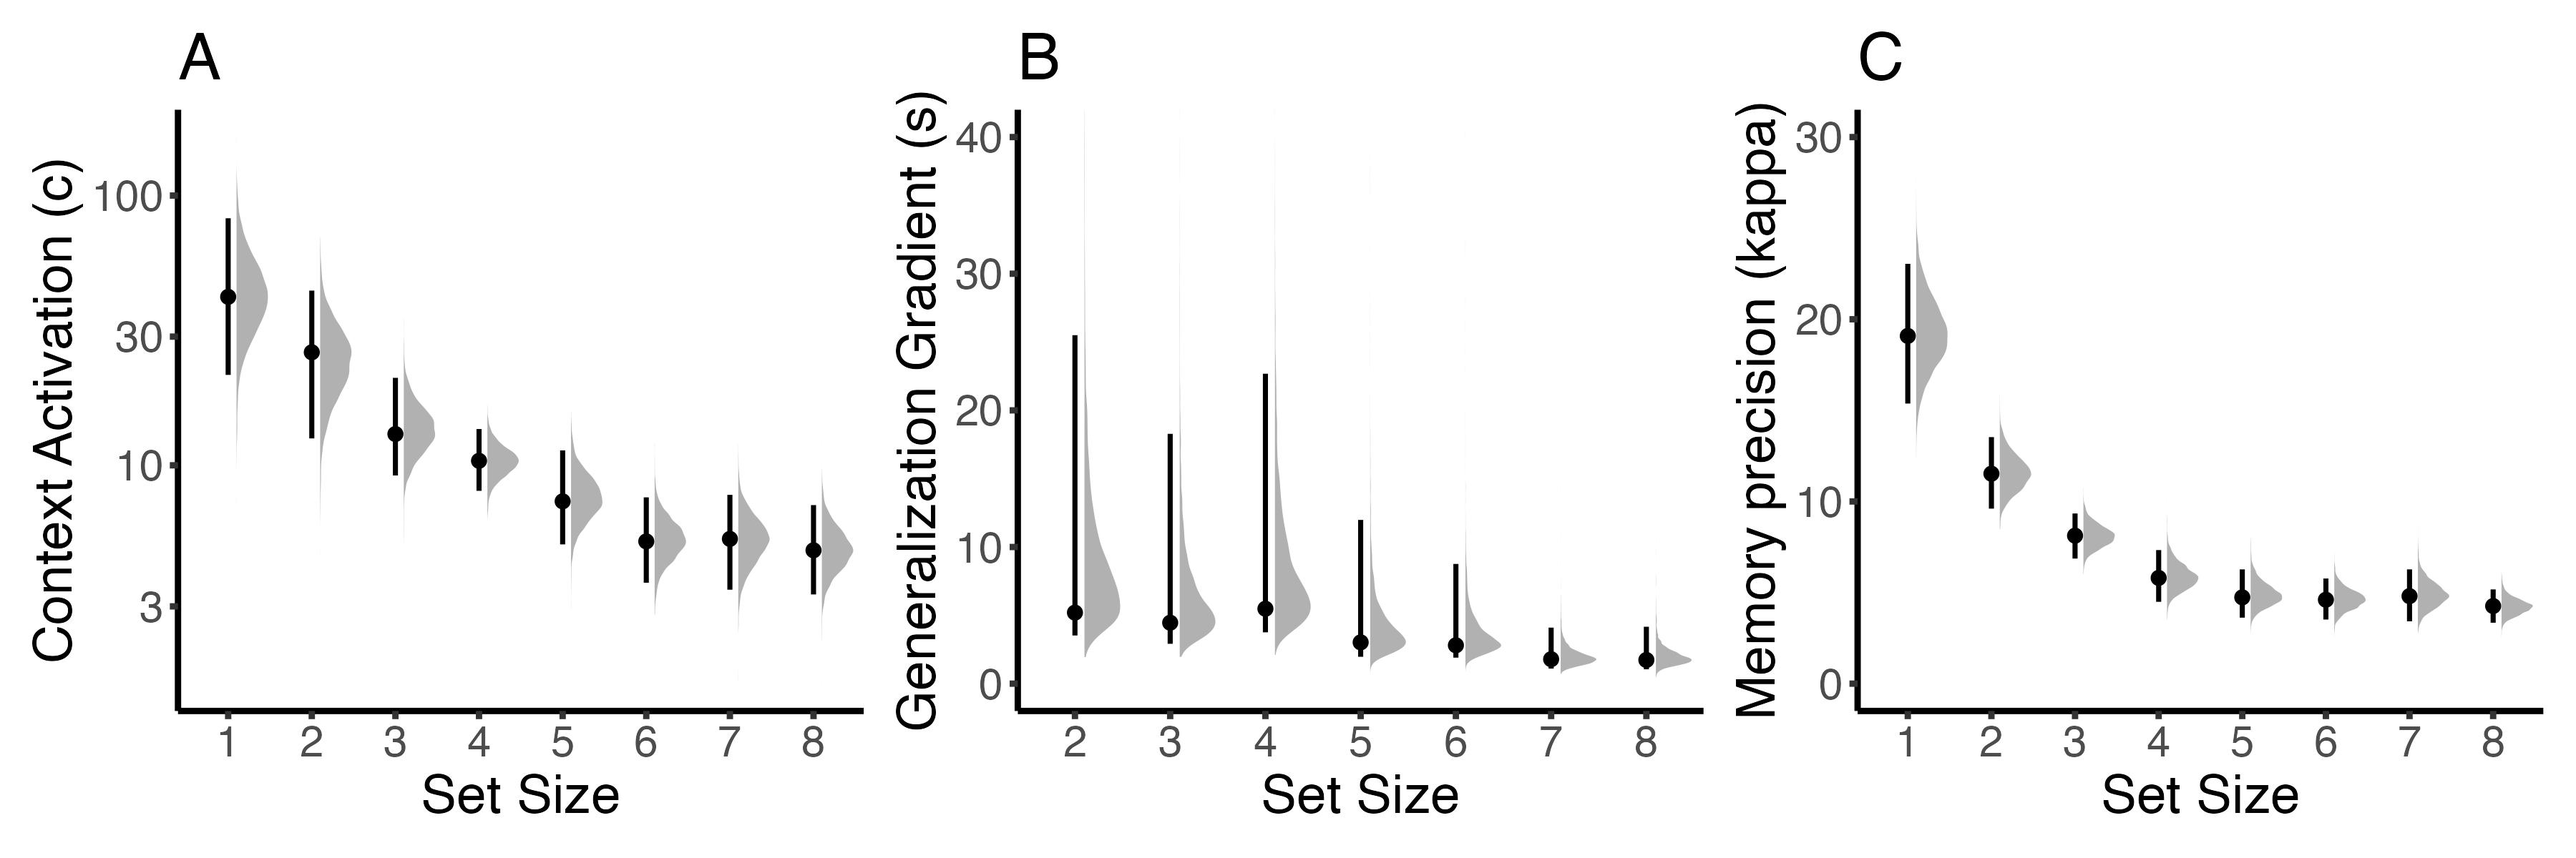
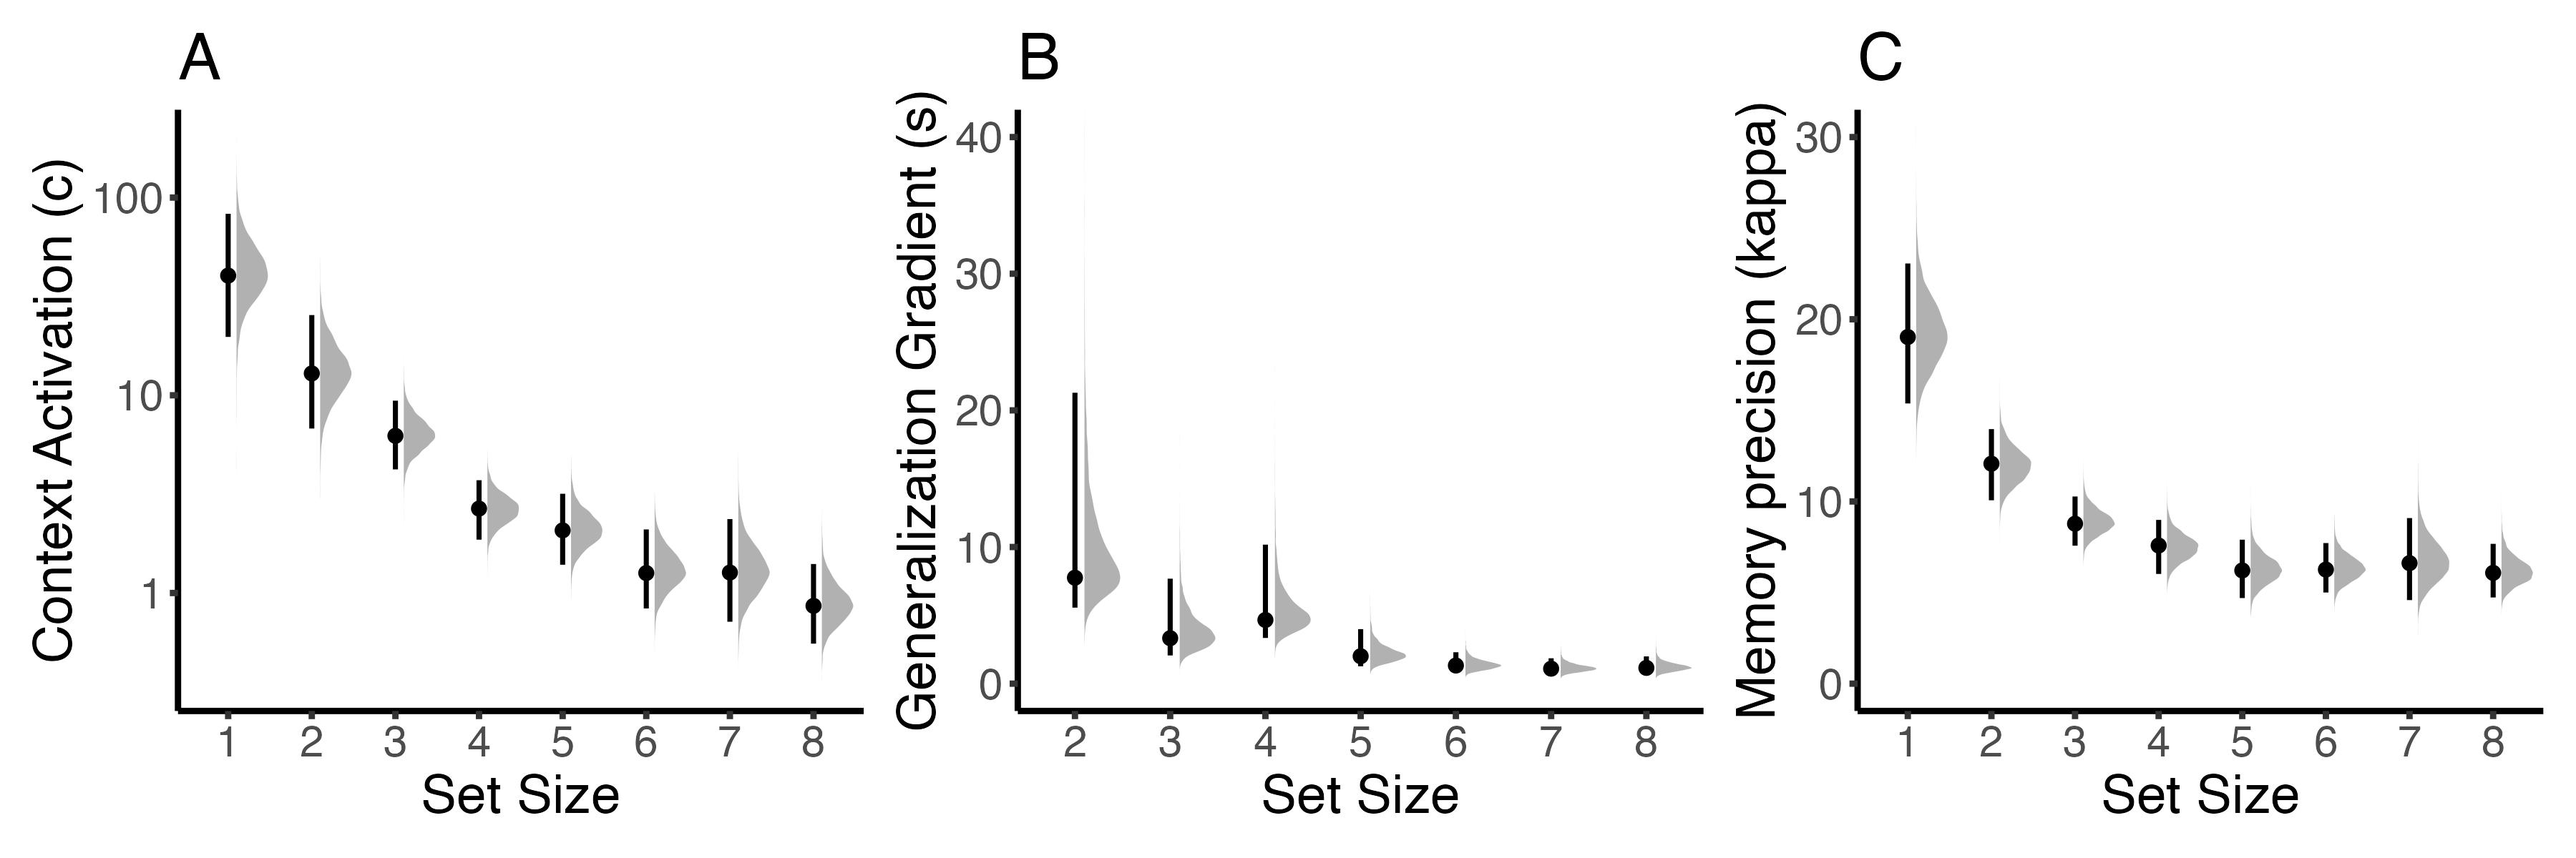
fix: refit IMMbsc example with bmm 1.0.1 and the priors of the other IMM fits
The stored IMMbsc fit was made with bmm 0.5.3.9000, before bmm 1.0 changed
the IMM parametrisation (non-target weight c - exp(s) * d instead of
exp(-exp(s) * d) * c). Running the script with bmm >= 1.0 gave estimates
that did not match the stored fit.

- Example 5 IMMbsc script: explicit prior (student_t(3, 0, 2.5) on the
  group-level SDs), the same as the IMMfull, IMMabc and 3pMM fits, so the
  Bayes factors compare models under one prior set.
- Figure regenerated from the refit (bmm 1.0.1, brms 2.23.0, 4 chains x
  2000 + 2000; max Rhat 1.004, min bulk ESS 1427, min tail ESS 1956,
  0 divergent transitions).
- README: section on package versions, the refit, default priors in newer
  bmm versions, and Example 4 failing with bmm 1.4.1 (popov-lab/bmm#694).

Context activation c is lower from set size 2 on (set size 4: 0.97 vs
2.33). IMMbsc remains the least supported of the four Example 5 models;
the median-based log10 Bayes factors against it grow by 9.97.
The new fit and bridge-sampling files go to OSF under the same names.

diff --git a/README.md b/README.md
@@ -11,3 +11,11 @@ To ensure that all relative paths work, we have set up an R project with the fol
 - data: folder containing benchmark data sets to evaluate mixture models
 
 Please note: Some of the output files exceeded the size limit for files allowed by GitHub, these are avaliable via: https://osf.io/vsrz4/
+
+## Package versions
+
+The model fits on OSF were made with development versions of bmm from 0.5.3.9000 to 1.0.1.9000 and with brms 2.21 to 2.22. On 10 November 2026 we refit the IMMbsc example with bmm 1.0.1, because bmm 1.0 changed the parametrisation of the IMM and the stored fit predated that change. If you downloaded `fit_E5_OL2017_IMMbsc.rds` or `E5_bridge_imm_bsc.rds` before that date, delete both files and download them again (`LoadResultsFiles.R` skips files that already exist).
+
+Newer bmm versions may set different default priors than the ones stored with the fits, for example on group-level SDs. Results then differ slightly; `prior_summary(fit)` on a stored fit shows which priors were used.
+
+With bmm 1.4.1 and the current development version, Example 4 with monotonic constraints fails at the first iteration (popov-lab/bmm#694). bmm 1.0.1 runs it.
